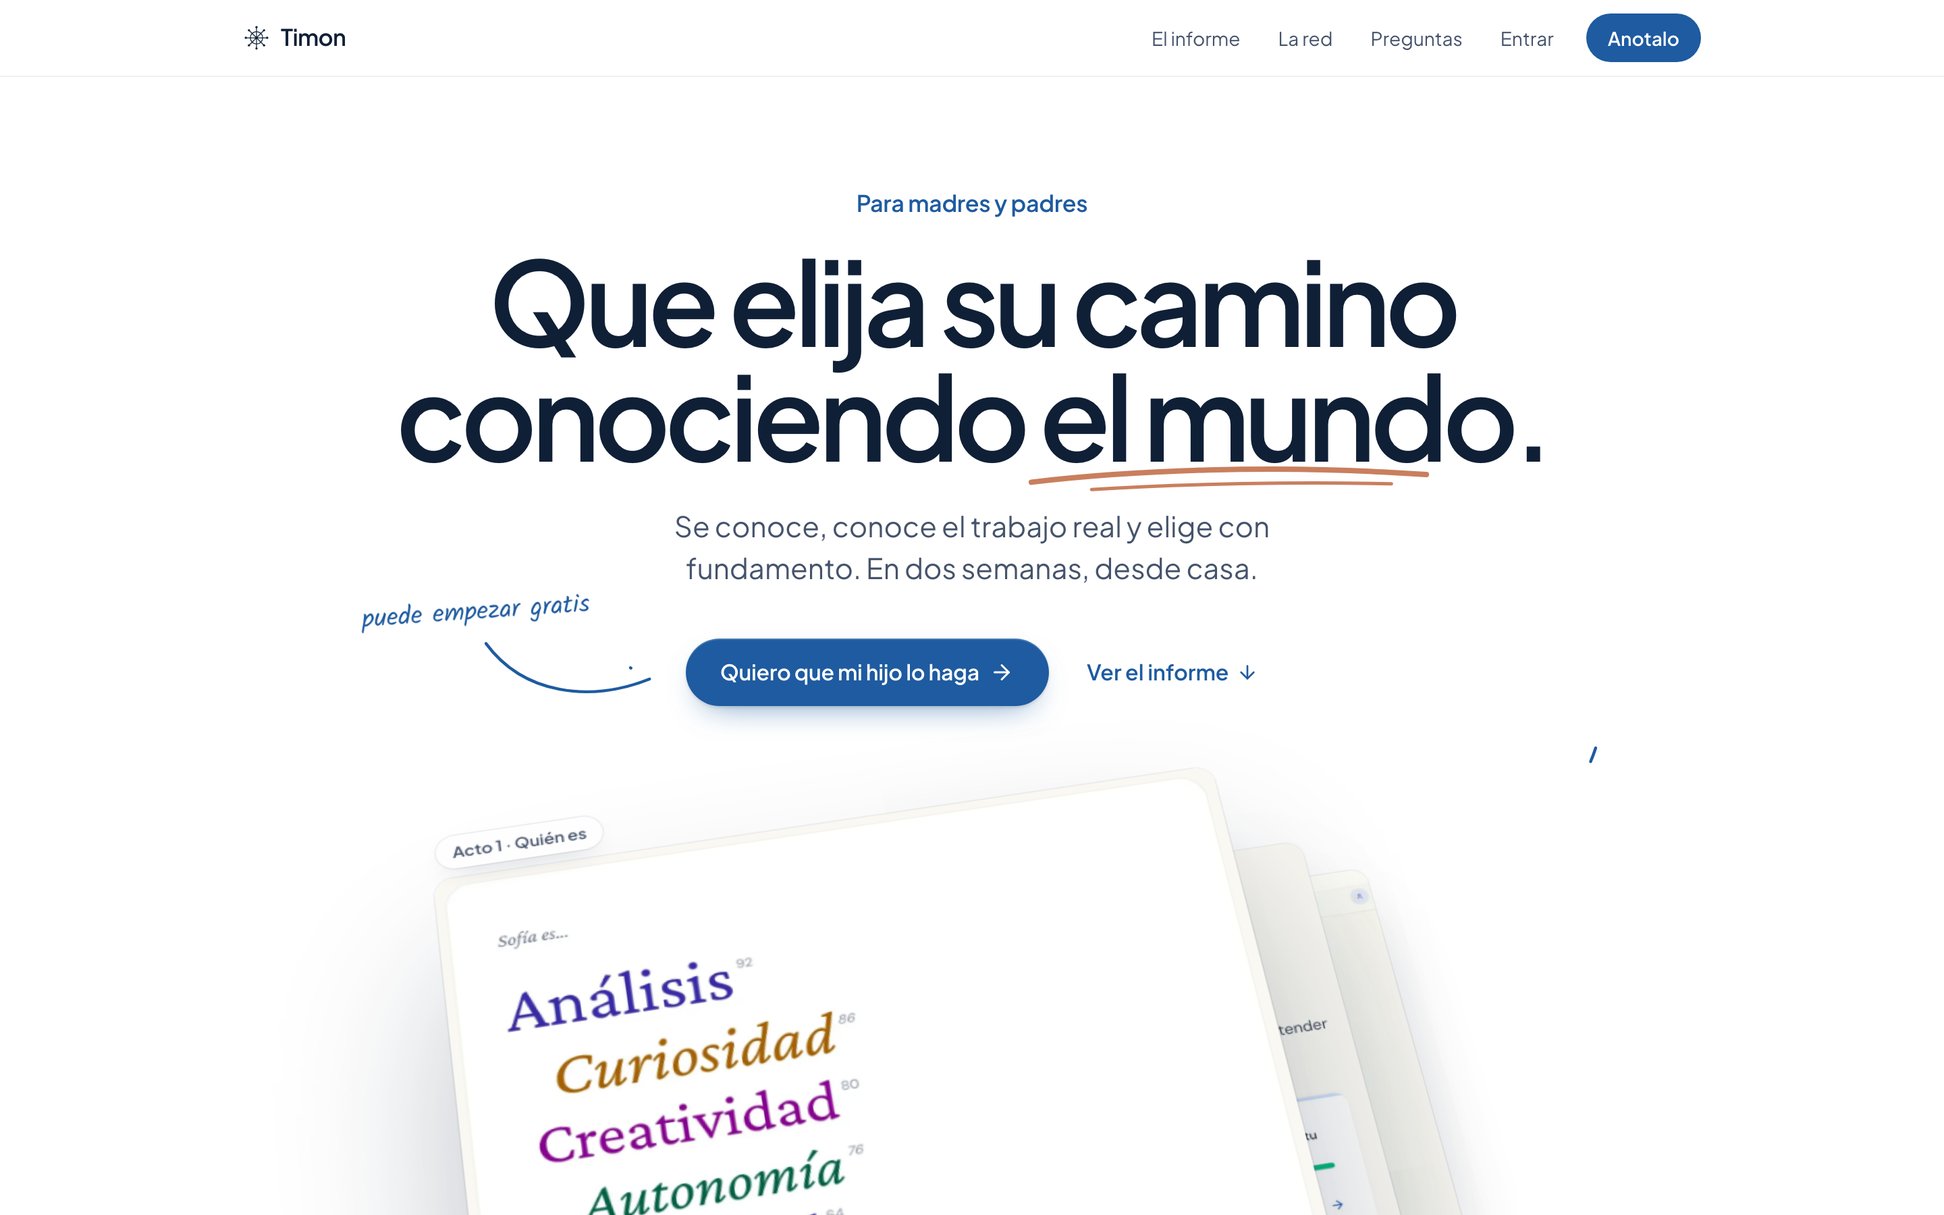
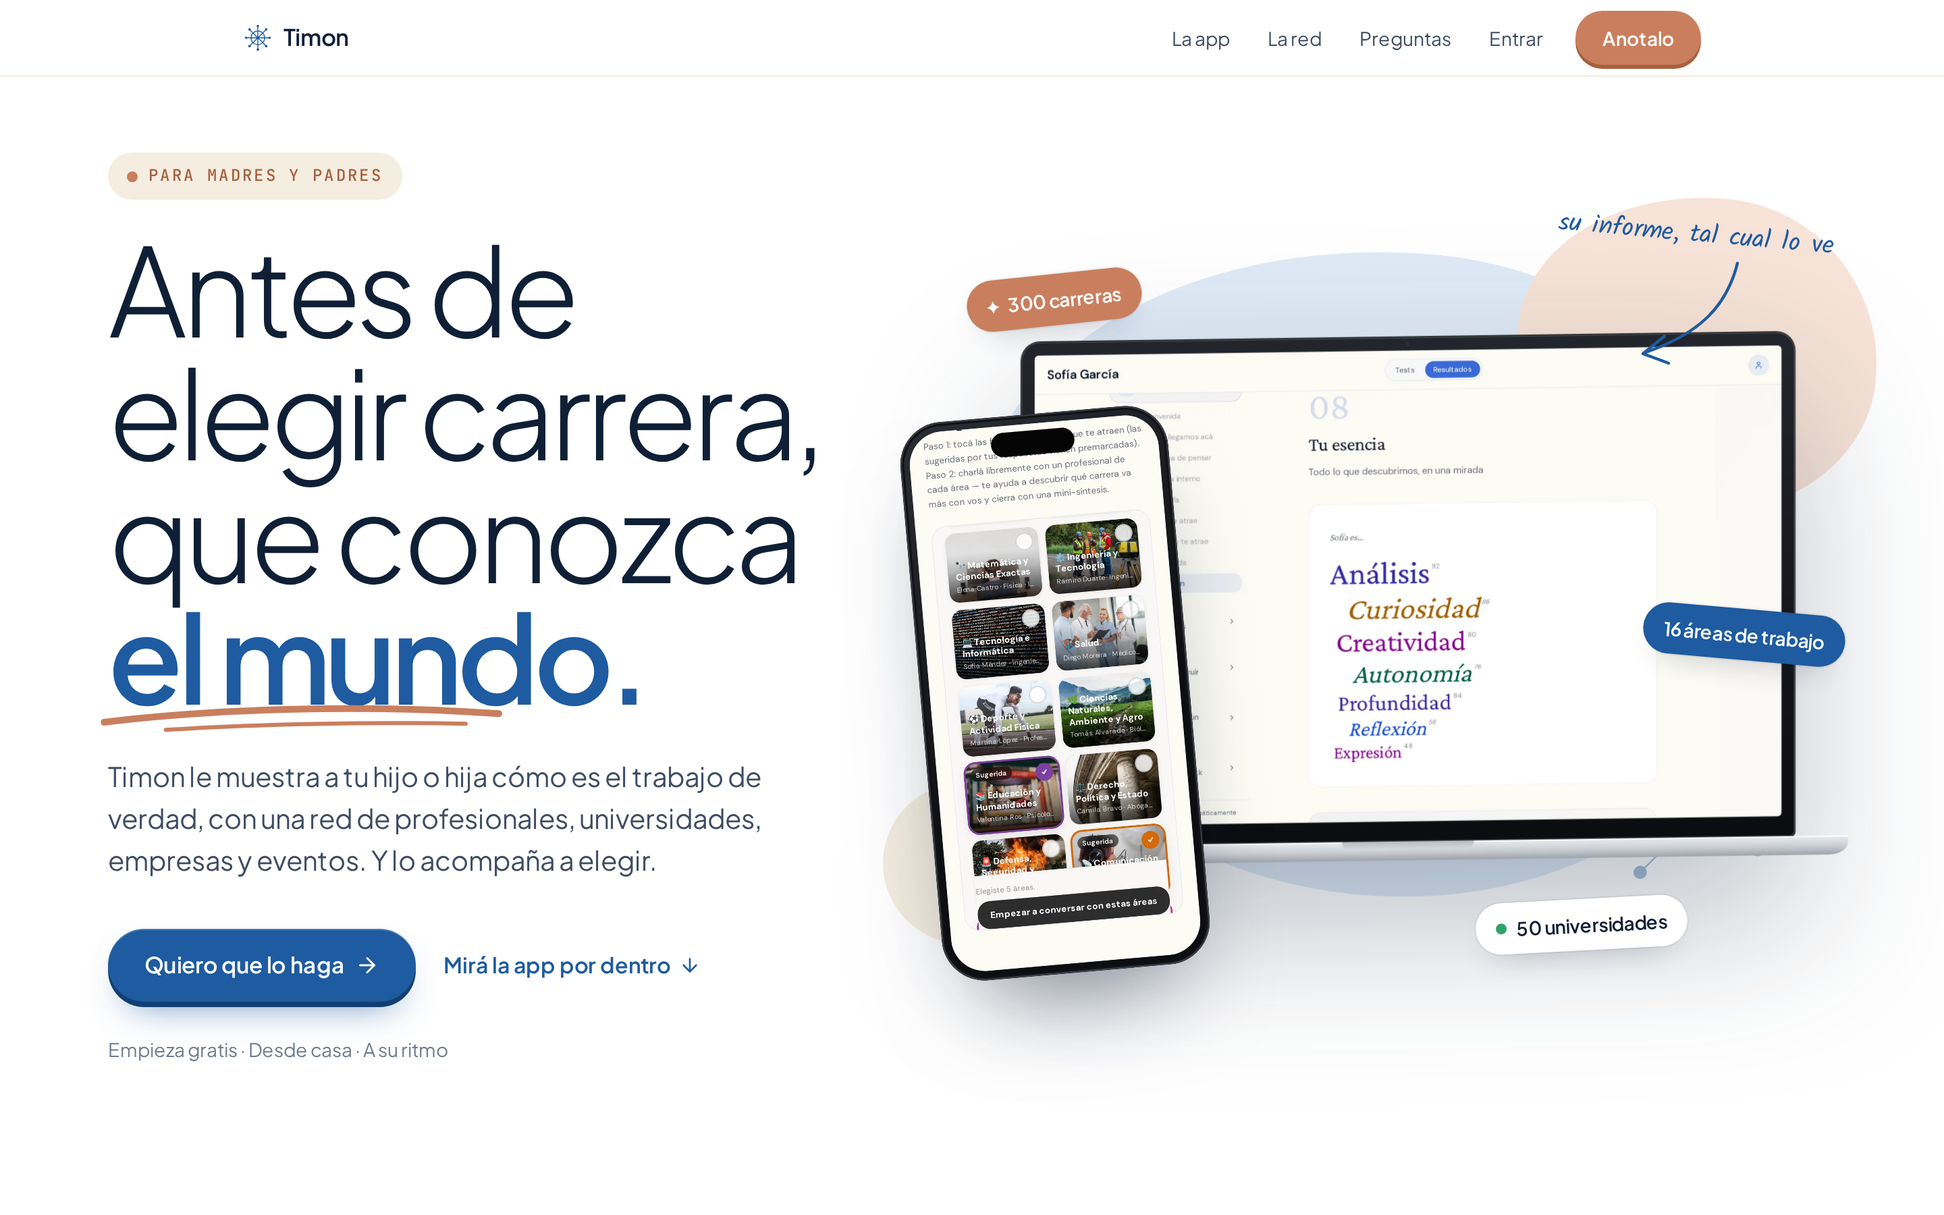
feat(landing): rioplatense copy, wording table, mobile hero and fixes
Add docs/wording-v2.md with old vs new copy. Tighten the mobile hero so the
product shows above the fold. Fix two hydration mismatches under reduced
motion (MotionConfig in the hero, useReducedMotion in Paradas). Regenerate
docs/capturas.

diff --git a/src/components/home/Hero.tsx b/src/components/home/Hero.tsx
@@ -2,12 +2,18 @@
 
 import Image from 'next/image'
 import { ArrowDown, ArrowRight } from 'lucide-react'
-import { MotionConfig, motion, useMotionValue, useSpring, useTransform } from 'motion/react'
+import { motion, useMotionValue, useReducedMotion, useSpring, useTransform, type Transition } from 'motion/react'
 import { MacBook, IPhone } from './Dispositivos'
 import { Dibujo, Nota, Trazo } from './Dibujo'
 
 const SUAVE = [0.22, 1, 0.36, 1] as const
 const RESORTE = { stiffness: 60, damping: 18, mass: 0.7 }
+
+/** Con menos movimiento, todo llega a su lugar sin animarse. */
+function useT() {
+  const quieto = useReducedMotion()
+  return (t: Transition): Transition => (quieto ? { duration: 0 } : t)
+}
 
 const TITULO_ANTES = ['Antes', 'de', 'elegir', 'carrera,', 'que', 'conozca']
 
@@ -25,12 +31,13 @@ function Sticker({
   giro: number
   retraso: number
 }) {
+  const T = useT()
   return (
     <motion.span
       className={`absolute z-20 ${donde}`}
       initial={{ opacity: 0, scale: 0.4, rotate: giro * 3 }}
       animate={{ opacity: 1, scale: 1, rotate: 0 }}
-      transition={{ type: 'spring', stiffness: 380, damping: 16, delay: retraso }}
+      transition={T({ type: 'spring', stiffness: 380, damping: 16, delay: retraso })}
     >
       <span className={`sticker ${className}`} style={{ '--giro': `${giro}deg` } as React.CSSProperties}>
         {children}
@@ -45,9 +52,13 @@ function Sticker({
  * sobre formas orgánicas de la marca. Entrada coreografiada: palabras,
  * fondo, MacBook, iPhone, stickers y el dibujo a mano, en ese orden. Con el
  * mouse, cada capa se mueve un poco distinto (profundidad). Con menos
- * movimiento, MotionConfig apaga los desplazamientos.
+ * movimiento, todo aparece en su lugar al instante y el mouse no mueve nada.
+ * (MotionConfig reducedMotion="user" rompía la hidratación: el servidor
+ * renderiza el estado inicial con transform y el cliente sin él.)
  */
 export function Hero() {
+  const T = useT()
+  const quieto = useReducedMotion()
   const mx = useMotionValue(0)
   const my = useMotionValue(0)
   const sx = useSpring(mx, RESORTE)
@@ -61,11 +72,10 @@ export function Hero() {
   const telY = useTransform(sy, (v) => v * 16)
 
   return (
-    <MotionConfig reducedMotion="user">
       <section
-        className="relative overflow-hidden px-5 pb-16 pt-10 sm:pb-24 sm:pt-16 lg:pb-28 lg:pt-14"
+        className="relative overflow-hidden px-5 pb-16 pt-7 sm:pb-24 sm:pt-16 lg:pb-28 lg:pt-14"
         onPointerMove={(e) => {
-          if (e.pointerType !== 'mouse') return
+          if (quieto || e.pointerType !== 'mouse') return
           const r = e.currentTarget.getBoundingClientRect()
           mx.set(((e.clientX - r.left) / r.width) * 2 - 1)
           my.set(((e.clientY - r.top) / r.height) * 2 - 1)
@@ -75,27 +85,27 @@ export function Hero() {
           my.set(0)
         }}
       >
-        <div className="mx-auto grid max-w-[1280px] items-center gap-12 lg:grid-cols-[minmax(0,5fr)_minmax(0,6fr)] lg:gap-6">
+        <div className="mx-auto grid max-w-[1280px] items-center gap-6 sm:gap-12 lg:grid-cols-[minmax(0,5fr)_minmax(0,6fr)] lg:gap-6">
           {/* ── Texto ─────────────────────────────────────────────────── */}
           <div className="relative z-10 text-center lg:text-left">
             <motion.p
               className="etiqueta inline-flex items-center gap-2 rounded-full bg-[var(--crema)] px-3.5 py-2 text-[var(--terra-hondo)]"
               initial={{ opacity: 0, y: 12 }}
               animate={{ opacity: 1, y: 0 }}
-              transition={{ duration: 0.6, ease: SUAVE }}
+              transition={T({ duration: 0.6, ease: SUAVE })}
             >
               <span className="h-2 w-2 rounded-full bg-[var(--terra)]" aria-hidden />
               Para madres y padres
             </motion.p>
 
-            <h1 className="display mx-auto mt-6 max-w-[13ch] text-[clamp(2.9rem,6.3vw,6rem)] lg:mx-0">
+            <h1 className="display mx-auto mt-5 max-w-[13ch] text-[clamp(2.6rem,6.3vw,6rem)] lg:mx-0">
               {TITULO_ANTES.map((p, i) => (
                 <motion.span
                   key={p}
                   className="inline-block"
                   initial={{ opacity: 0, y: 34 }}
                   animate={{ opacity: 1, y: 0 }}
-                  transition={{ duration: 0.8, ease: SUAVE, delay: 0.08 + i * 0.06 }}
+                  transition={T({ duration: 0.8, ease: SUAVE, delay: 0.08 + i * 0.06 })}
                 >
                   {p}&nbsp;
                 </motion.span>
@@ -104,7 +114,7 @@ export function Hero() {
                 className="relative inline-block whitespace-nowrap font-semibold text-[var(--ocean)]"
                 initial={{ opacity: 0, y: 34 }}
                 animate={{ opacity: 1, y: 0 }}
-                transition={{ duration: 0.8, ease: SUAVE, delay: 0.08 + TITULO_ANTES.length * 0.06 }}
+                transition={T({ duration: 0.8, ease: SUAVE, delay: 0.08 + TITULO_ANTES.length * 0.06 })}
               >
                 el mundo.
                 <Dibujo retraso={1.05} className="absolute -bottom-[0.16em] left-[-2%] h-[0.3em] w-[96%]">
@@ -117,20 +127,20 @@ export function Hero() {
             </h1>
 
             <motion.p
-              className="mx-auto mt-7 max-w-[36ch] text-[18px] leading-[1.55] text-[var(--texto2)] sm:text-[20px] lg:mx-0"
+              className="mx-auto mt-5 max-w-[36ch] text-[16.5px] leading-[1.55] sm:mt-7 text-[var(--texto2)] sm:text-[20px] lg:mx-0"
               initial={{ opacity: 0, y: 16 }}
               animate={{ opacity: 1, y: 0 }}
-              transition={{ duration: 0.8, ease: SUAVE, delay: 0.6 }}
+              transition={T({ duration: 0.8, ease: SUAVE, delay: 0.6 })}
             >
               Timon le muestra a tu hijo o hija cómo es el trabajo de verdad, con una red de profesionales,
               universidades, empresas y eventos. Y lo acompaña a elegir.
             </motion.p>
 
             <motion.div
-              className="mt-9 flex flex-col items-center gap-5 sm:flex-row sm:justify-center lg:justify-start"
+              className="mt-7 flex flex-col items-center gap-4 sm:mt-9 sm:flex-row sm:gap-5 sm:justify-center lg:justify-start"
               initial={{ opacity: 0, y: 16 }}
               animate={{ opacity: 1, y: 0 }}
-              transition={{ duration: 0.8, ease: SUAVE, delay: 0.75 }}
+              transition={T({ duration: 0.8, ease: SUAVE, delay: 0.75 })}
             >
               <a href="#anotalo" className="btn group">
                 Quiero que lo haga
@@ -143,10 +153,10 @@ export function Hero() {
             </motion.div>
 
             <motion.p
-              className="mt-6 text-[14px] text-[var(--tenue)]"
+              className="mt-6 hidden text-[14px] text-[var(--tenue)] sm:block"
               initial={{ opacity: 0 }}
               animate={{ opacity: 1 }}
-              transition={{ duration: 0.8, delay: 1 }}
+              transition={T({ duration: 0.8, delay: 1 })}
             >
               Empieza gratis · Desde casa · A su ritmo
             </motion.p>
@@ -159,19 +169,19 @@ export function Hero() {
                 className="blob blob-vivo left-[8%] top-[2%] h-[86%] w-[84%] bg-[var(--cielo)]"
                 initial={{ opacity: 0, scale: 0.6 }}
                 animate={{ opacity: 1, scale: 1 }}
-                transition={{ duration: 1.2, ease: SUAVE, delay: 0.15 }}
+                transition={T({ duration: 1.2, ease: SUAVE, delay: 0.15 })}
               />
               <motion.span
                 className="blob blob-vivo right-[-4%] top-[-6%] h-[42%] w-[38%] bg-[var(--durazno)] [animation-delay:-5s]"
                 initial={{ opacity: 0, scale: 0.4 }}
                 animate={{ opacity: 1, scale: 1 }}
-                transition={{ duration: 1.2, ease: SUAVE, delay: 0.3 }}
+                transition={T({ duration: 1.2, ease: SUAVE, delay: 0.3 })}
               />
               <motion.span
                 className="absolute bottom-[4%] left-[-3%] h-[22%] w-[22%] rounded-full bg-[var(--crema)]"
                 initial={{ opacity: 0, scale: 0.4 }}
                 animate={{ opacity: 1, scale: 1 }}
-                transition={{ duration: 1.1, ease: SUAVE, delay: 0.4 }}
+                transition={T({ duration: 1.1, ease: SUAVE, delay: 0.4 })}
               />
               {/* Constelación de la red: puntos y líneas de la marca. */}
               <svg viewBox="0 0 100 100" className="absolute right-[2%] bottom-[6%] h-[26%] w-[26%] text-[var(--ocean)] opacity-40">
@@ -195,14 +205,14 @@ export function Hero() {
                 style={{ x: macX, rotateY: macRotY, rotateX: macRotX, transformStyle: 'preserve-3d' }}
                 initial={{ opacity: 0, y: 90, scale: 0.92 }}
                 animate={{ opacity: 1, y: 0, scale: 1 }}
-                transition={{ duration: 1.2, ease: SUAVE, delay: 0.35 }}
+                transition={T({ duration: 1.2, ease: SUAVE, delay: 0.35 })}
               >
                 <MacBook className="drop-shadow-[0_50px_60px_rgba(15,31,54,0.28)]">
                   <Image
                     src="/app/mac-informe.webp"
                     alt="El informe de Timon en una MacBook: la esencia de Sofía, con sus rasgos de Análisis a Expresión"
                     fill
-                    priority
+                    preload
                     sizes="(min-width: 1024px) 640px, 90vw"
                     className="object-cover object-top"
                   />
@@ -214,7 +224,7 @@ export function Hero() {
                 style={{ x: telX, y: telY }}
                 initial={{ opacity: 0, x: -50, y: 80, rotate: -14 }}
                 animate={{ opacity: 1, x: 0, y: 0, rotate: -5 }}
-                transition={{ duration: 1.1, ease: SUAVE, delay: 0.6 }}
+                transition={T({ duration: 1.1, ease: SUAVE, delay: 0.6 })}
               >
                 <IPhone>
                   <Image
@@ -248,6 +258,5 @@ export function Hero() {
           </div>
         </div>
       </section>
-    </MotionConfig>
   )
 }

diff --git a/src/components/home/Paradas.tsx b/src/components/home/Paradas.tsx
@@ -1,16 +1,20 @@
 'use client'
 
 import { useRef } from 'react'
-import { useInView, useReducedMotion } from 'motion/react'
+import { useInView } from 'motion/react'
 
 const N = 13
 
-/** Las 13 paradas como puntos que se encienden en orden al entrar en pantalla. La última es el informe. */
+/**
+ * Las 13 paradas como puntos que se encienden en orden al entrar en pantalla.
+ * La última es el informe. Con menos movimiento se encienden juntas, sin
+ * transición (CSS); no se lee useReducedMotion al renderizar porque el
+ * servidor no lo sabe y rompía la hidratación.
+ */
 export function Paradas() {
   const ref = useRef<HTMLOListElement>(null)
   const visto = useInView(ref, { once: true, margin: '0px 0px -15% 0px' })
-  const quieto = useReducedMotion()
-  const encendido = visto || quieto
+  const encendido = visto
 
   return (
     <ol ref={ref} aria-label="13 paradas" className="flex items-center gap-[6px]">
@@ -19,10 +23,10 @@ export function Paradas() {
         return (
           <li
             key={i}
-            className={`rounded-full transition-[background-color,transform] duration-500 ${ultima ? 'h-3.5 w-3.5' : 'h-2.5 w-2.5'}`}
+            className={`rounded-full transition-[background-color,transform] duration-500 motion-reduce:transition-none ${ultima ? 'h-3.5 w-3.5' : 'h-2.5 w-2.5'}`}
             style={{
-              backgroundColor: encendido ? (ultima ? '#c97f5e' : '#4f84c2') : 'rgba(255,255,255,0.14)',
-              transitionDelay: quieto ? '0ms' : `${200 + i * 90}ms`,
+              backgroundColor: encendido ? (ultima ? '#c97f5e' : '#f5ede0') : 'rgba(255,255,255,0.14)',
+              transitionDelay: `${200 + i * 90}ms`,
             }}
           />
         )

diff --git a/docs/wording-v2.md b/docs/wording-v2.md
@@ -1,0 +1,77 @@
+# Wording v2 de la home (14/11/2026)
+
+Textos de la home (`src/app/page.tsx` y `src/components/home/*`), antes y después.
+Criterios: rioplatense, le hablamos a la madre o al padre, concreto y cálido, sin jerga.
+La red (profesionales, universidades, empresas y eventos) es el valor central.
+No hay claims nuevos con números: los únicos datos son los que ya estaban (16 áreas,
+300 carreras, 50 universidades, +10.000 combinaciones, 13 paradas, el dato del SPU).
+Tampoco hay testimonios nuevos: las tres citas de "Lo revisaron" salen de
+`LO_QUE_DICEN` en `src/lib/landing.ts` y no cambiaron.
+
+## Para revisar antes de publicar
+
+- **Empresas y eventos.** El brief pide presentar la red con estos cuatro nodos. Hay que
+  confirmar que hoy existen como parte del producto. Si todavía no existen, conviene
+  sacarlos o decir "próximamente".
+- **Profesionales.** En la app, la charla del paso "Investiga" es con profesionales
+  *virtuales*, y así lo dice la landing. En la sección de la red, "Profesionales" habla
+  de gente real que cuenta su día: confirmar que eso es cierto.
+- **Timon / Timón.** Se mantiene "Timon" sin tilde, como dice la regla de
+  `src/lib/landing.ts`. Si la marca pasa a llevar tilde, hay que cambiarlo en todo el sitio.
+
+## Tabla
+
+| Lugar | Texto actual (v1) | Texto nuevo (v2) |
+|---|---|---|
+| `<title>` | Timon: que elija su camino conociendo el mundo | Timon: antes de elegir carrera, que conozca el mundo |
+| Meta description | Tu hijo se conoce, conoce el trabajo real y elige su carrera con fundamento. En dos semanas, desde casa. | Timon le muestra a tu hijo o hija cómo es el trabajo de verdad, con una red de profesionales, universidades, empresas y eventos. Empieza gratis, desde casa. |
+| Header · ancla 1 | El informe | La app |
+| Header · botón | Anotalo | Anotalo (sin cambios) |
+| Hero · etiqueta | Para madres y padres | Para madres y padres (sin cambios) |
+| Hero · titular | Que elija su camino conociendo el mundo. | Antes de elegir carrera, que conozca el mundo. |
+| Hero · bajada | Se conoce, conoce el trabajo real y elige con fundamento. En dos semanas, desde casa. | Timon le muestra a tu hijo o hija cómo es el trabajo de verdad, con una red de profesionales, universidades, empresas y eventos. Y lo acompaña a elegir. |
+| Hero · botón | Quiero que mi hijo lo haga | Quiero que lo haga |
+| Hero · link | Ver el informe | Mirá la app por dentro |
+| Hero · nota a mano | puede empezar gratis | su informe, tal cual lo ve |
+| Hero · línea chica | — | Empieza gratis · Desde casa · A su ritmo |
+| Hero · stickers | Acto 1 · Quién es / Acto 2 · Sus caminos / Acto 3 · Dónde estudiarlo | 300 carreras / 16 áreas de trabajo / 50 universidades |
+| Problema · etiqueta | — | El problema |
+| Problema · frase | Nadie conoce todas las opciones a los 17. | A los 17, nadie conoce todas las opciones. |
+| Problema · dato | 4 de cada 10 ingresantes deja la carrera en el primer año. | Sin cambios (misma fuente: SPU, cohorte 2019 · vía iProfesional) |
+| App · etiqueta | El informe | La app por dentro |
+| App · título | Un informe en tres actos. | Así lo vive, paso a paso. |
+| App · bajada | — | Cuatro partes, desde el celular o la compu. Estas son las pantallas reales. |
+| App · paso 1 | Acto 1 · Quién es. | **Se conoce.** Unos tests cortos para conocerse. 13 paradas de menos de 10 minutos. No hay respuestas buenas ni malas, y el avance se guarda solo. |
+| App · paso 2 | — | **Investiga.** Recorre las áreas y pregunta cómo es el trabajo. Elige las áreas que le llaman la atención y charla con profesionales virtuales de cada una sobre su día a día. |
+| App · paso 3 | Acto 2 · Sus caminos. | **Se descubre.** Un informe que habla de quién es. Sus rasgos, lo que lo mueve y las carreras que van con su perfil, ordenadas por compatibilidad. |
+| App · paso 4 | Acto 3 · Dónde estudiarlos. | **Compara.** Dónde estudiar, comparado en serio. Universidades para cada carrera, con filtros por cuota, modalidad y zona. Pública o privada, de un vistazo. |
+| App · notas sobre las pantallas | su informe, tal cual lo ve | parada por parada · se guarda solo ✓ · 16 áreas para recorrer · elige lo que le atrae · del rasgo más fuerte al más suave · en sus palabras · cuota · modalidad · zona · qué tan alineada está |
+| App · aclaración | Capturas de la app con datos de ejemplo. | Sin cambios |
+| Red · título | No es un test. Es una red. | Sin cambios |
+| Red · bajada | El trabajo real detrás de cada carrera. | Detrás de cada carrera hay gente que la trabaja. Timon acerca a tu hijo o hija a ese mundo. |
+| Red · nodo 1 | — | **Profesionales.** Gente que trabaja de lo que le interesa y le cuenta cómo es su día. |
+| Red · nodo 2 | — | **Universidades.** 50 universidades y 300 carreras, para ver dónde y cómo estudiar. |
+| Red · nodo 3 | — | **Empresas.** Los lugares donde se trabaja de eso, para verlo de cerca. |
+| Red · nodo 4 | — | **Eventos.** Encuentros para conocer el mundo del trabajo en persona. |
+| Red · números | 16 áreas de trabajo · 300 carreras · 50 universidades · +10.000 combinaciones analizadas | Sin cambios |
+| Bento · título | — | Fácil de hacer. Tranquilo para vos. |
+| Bento · tiempo | 13 paradas de menos de 10 minutos. | Sin cambios |
+| Bento · desde casa | Dos semanas, a su ritmo. | Sin cambios |
+| Bento · informe | (captura sin texto) | Quién es, qué carreras van con su perfil y dónde estudiarlas. |
+| Bento · precio | — | Empieza gratis. El informe completo es un pago único, no una suscripción. |
+| Bento · privacidad | Vos ves cómo avanza. Sus respuestas son suyas. | Sin cambios |
+| Confianza · título | Lo revisaron quienes saben. | Sin cambios |
+| Anotalo · título | Anotalo hoy. | Que empiece hoy. |
+| Anotalo · bajada | Después elegís: pagar ahora o que empiece gratis. | Dejás tus datos y elegís: que arranque gratis o pagar ahora. |
+| Anotalo · nota a mano | — | te lleva 1 minuto |
+| Preguntas · título | Preguntas. | Preguntas de madres y padres. |
+| Preguntas · botón | — | Quiero que lo haga |
+| FAQ · ¿Es un test vocacional? | No. El recorrido lo ayuda a conocerse, y después le muestra el trabajo real, las carreras y dónde estudiarlas. | No. Arranca con unos tests cortos para que se conozca, y después le muestra el trabajo real, las carreras y dónde estudiarlas. |
+| FAQ · ¿Cuánto cuesta? | Puede empezar gratis. El informe completo es un pago único, no una suscripción. | Empieza gratis. El informe completo es un pago único, no una suscripción. |
+| FAQ · ¿Cuánto tiempo lleva? | 13 paradas de menos de 10 minutos. Lo ideal es hacerlas en dos semanas, a su ritmo. | Sin cambios |
+| FAQ · ¿Vas a ver sus respuestas? | No. Ves cómo avanza y su informe final. Lo que responde es suyo. | Sin cambios |
+| FAQ · ¿Reemplaza a un profesional? | No. Es una guía para decidir con fundamento. Si quieren, repasan el resultado con un profesional. | No. Es una guía para elegir con fundamento. Si quieren, después repasan el resultado con un profesional. |
+| Footer | Soy estudiante · Colegios · Términos · info@timonear.com + aviso legal | Sin cambios |
+
+El formulario (`Anotalo.tsx`) no cambió de texto: sus etiquetas y mensajes son el
+contrato con `/api/padres` y con el flujo de pago.
